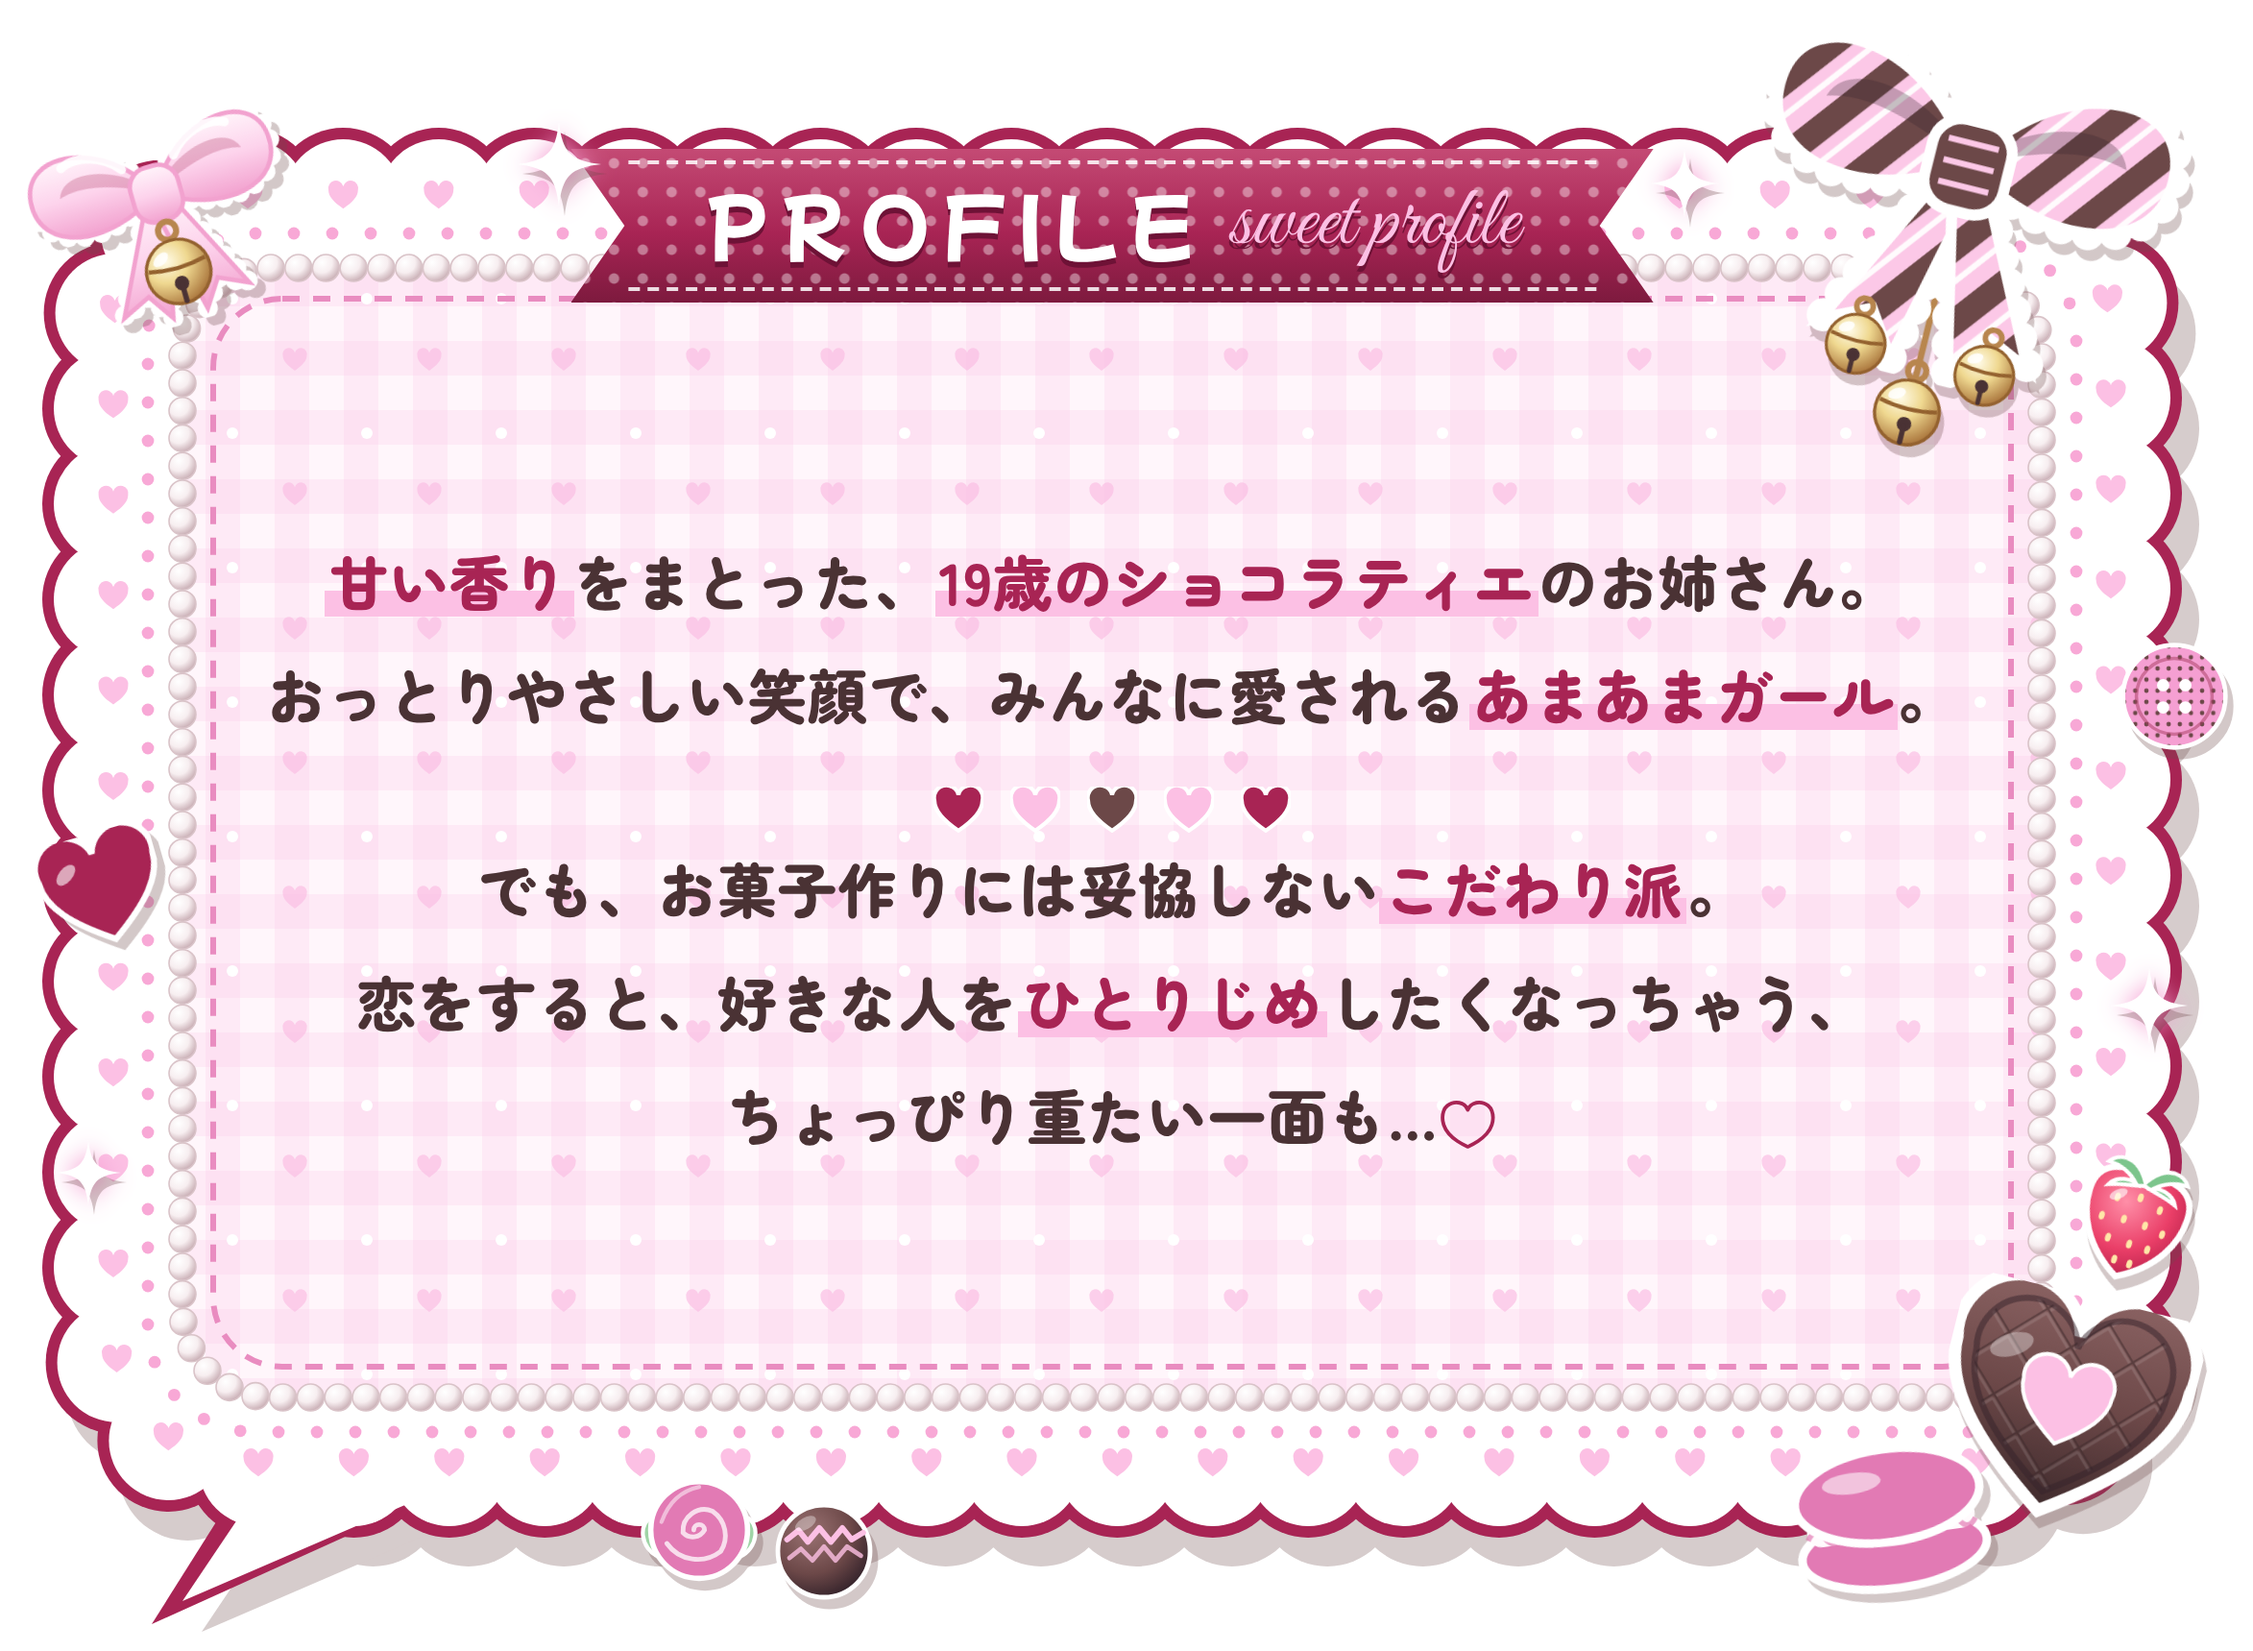
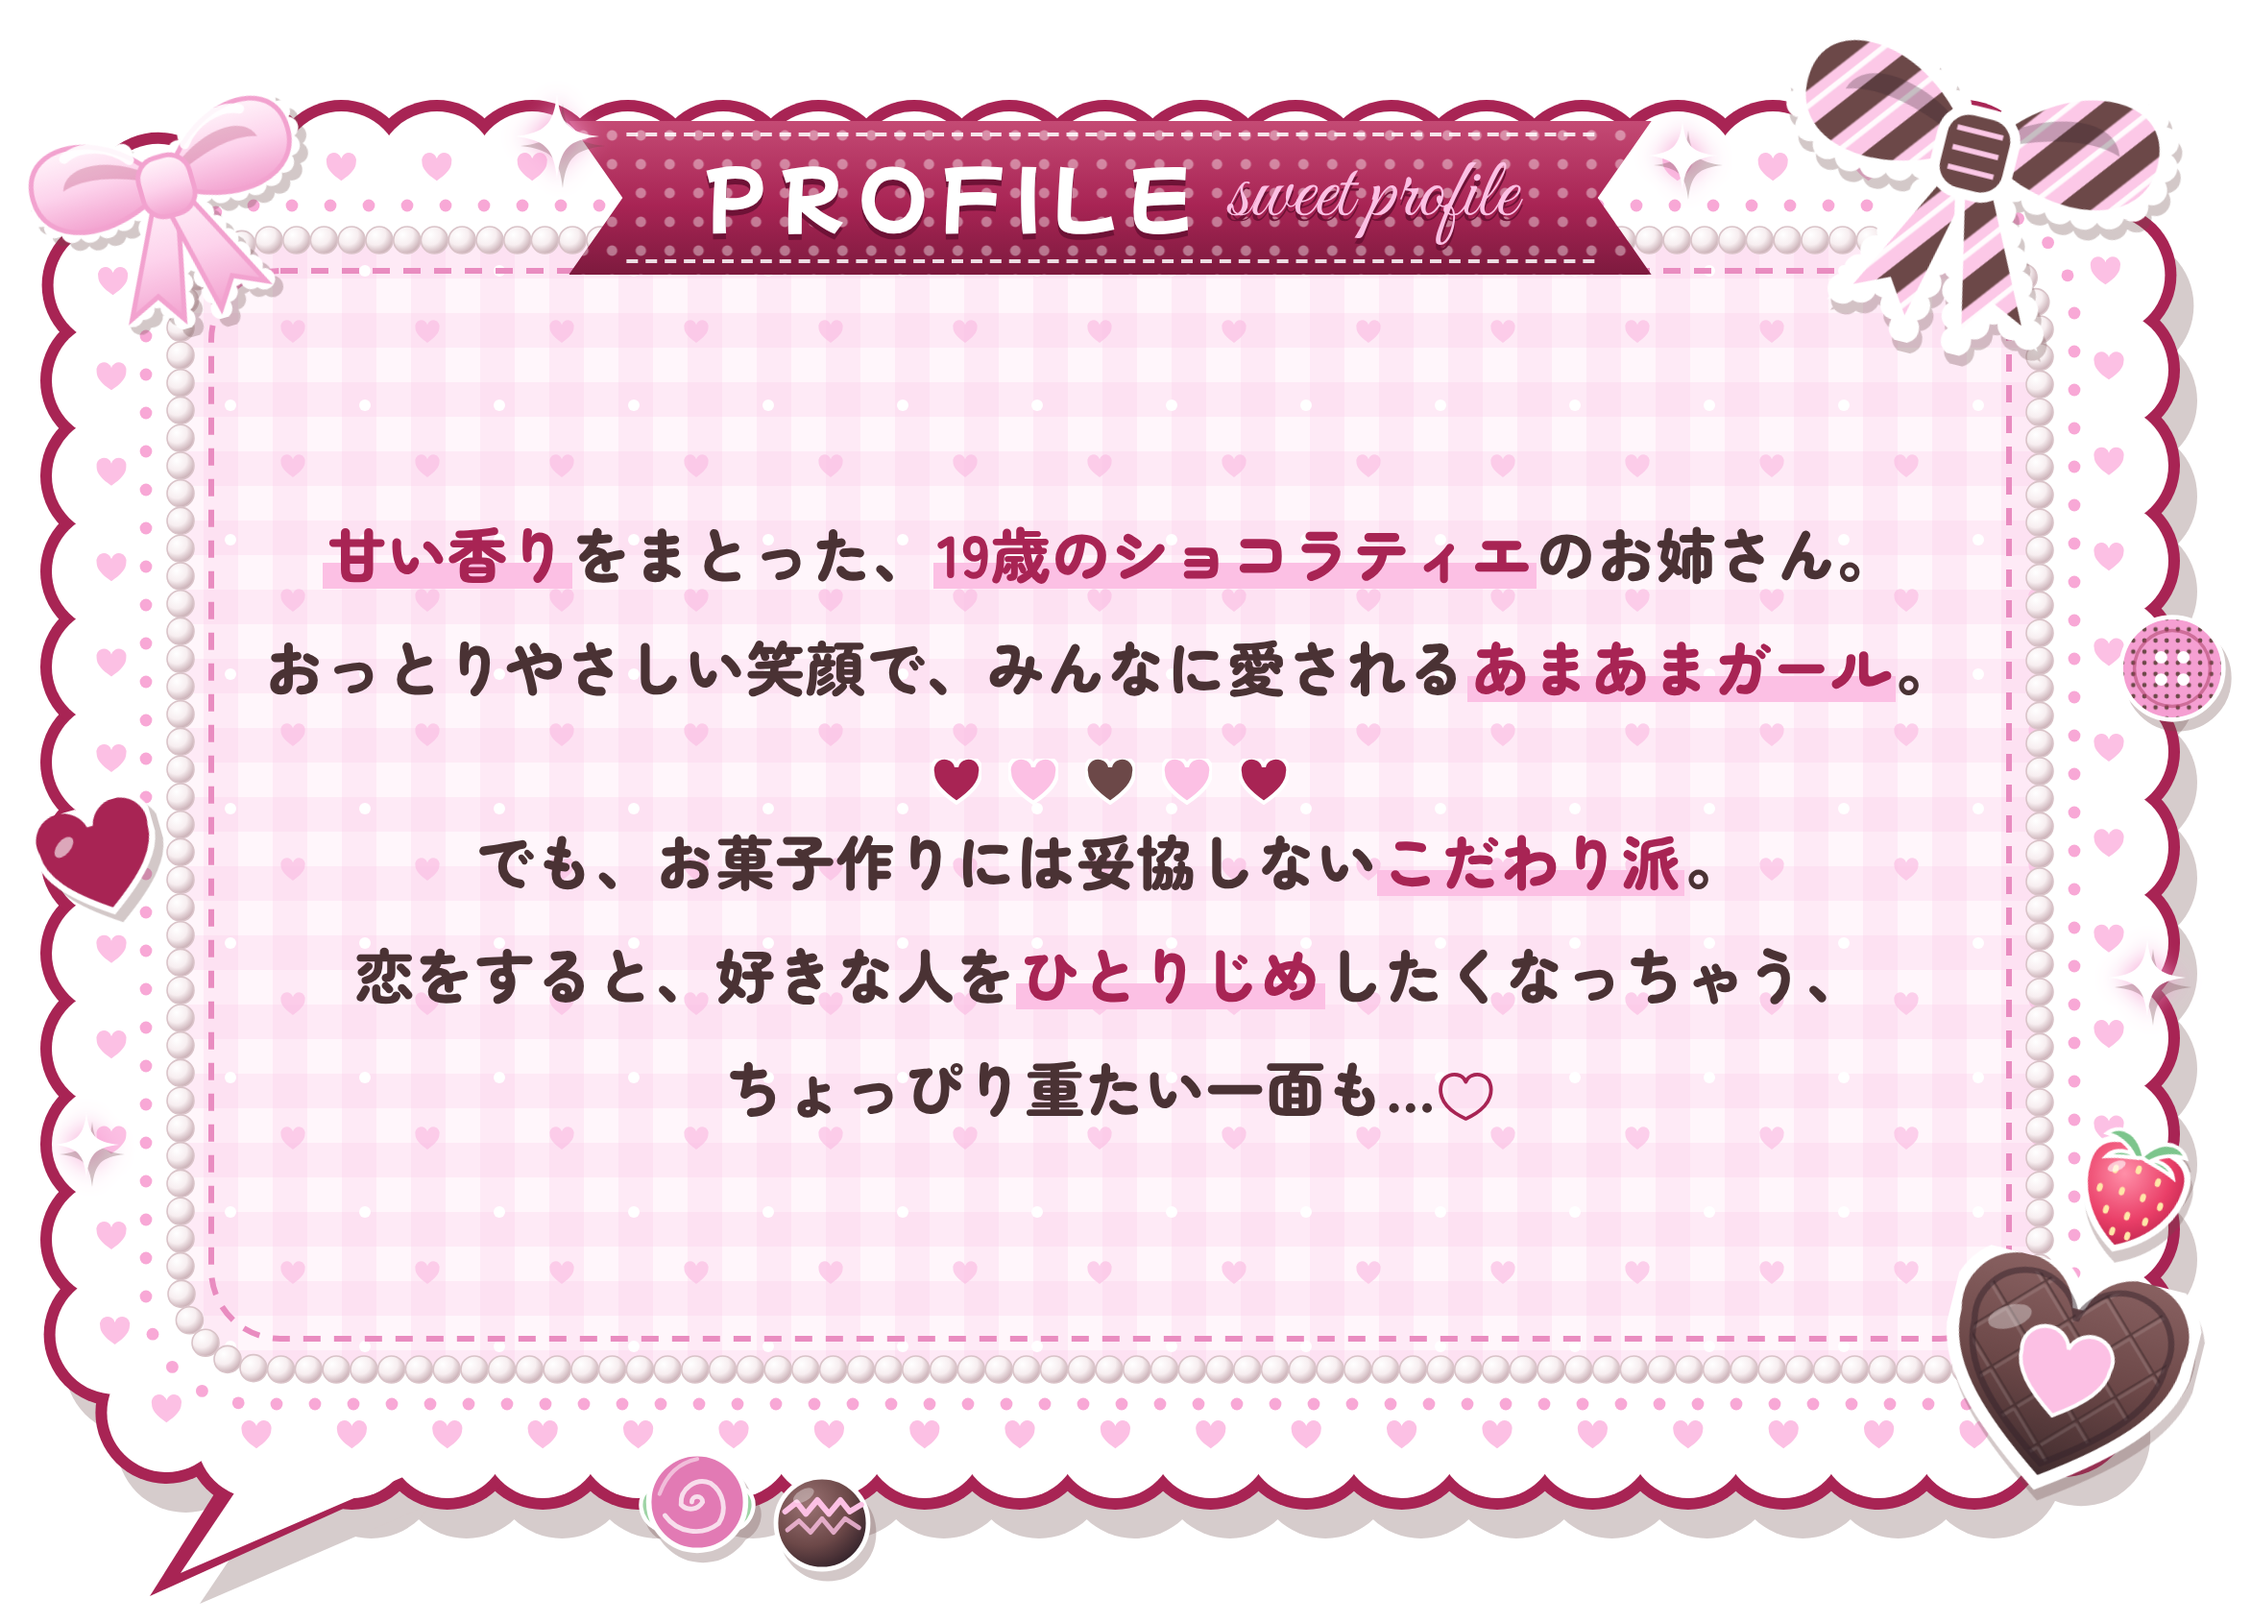
プロフィールフレームから鈴とマカロンを外す
Claude-Session: https://claude.ai/code/session_01JuB6ifHg8K2KMZRvspwKhg

diff --git a/chara_sheet/profile_frame.html b/chara_sheet/profile_frame.html
@@ -293,13 +293,12 @@ const rr = (x, y, w, h, r) => `M${x + r} ${y}H${x + w - r}A${r} ${r} 0 0 1 ${x +
 })();
 
 /* 飾り [種類, x, y, 幅, 回転, 色] */
-const VB = { bellS:'0 0 120 116', bellP:'0 0 120 116', bellC:'0 0 120 116', bigbow:'0 0 240 230', chocoheart:'0 0 100 92', macaron:'0 0 100 80',
+const VB = { bowS:'0 0 120 94', bowP:'0 0 120 94', bellS:'0 0 120 116', bellP:'0 0 120 116', bellC:'0 0 120 116', bigbow:'0 0 240 230', chocoheart:'0 0 100 92', macaron:'0 0 100 80',
   berryS:'0 0 80 92', truffle:'0 0 100 100', rose:'0 0 100 100', spark:'0 0 100 100', heart:'0 0 100 92', cream:'0 0 100 100', btnP:'0 0 100 100' };
 const D = [
-  ['bigbow', 900, -14, 230, 14, ''],
-  ['bellP', 20, 26, 140, -16, ''],
+  ['bowS', 920, 0, 210, 14, ''],
+  ['bowP', 18, 34, 150, -16, ''],
   ['chocoheart', 1010, 640, 130, 14, ''],
-  ['macaron', 930, 712, 110, -8, '#e27ab4'],
   ['berryS', 1080, 560, 66, 18, ''],
   ['rose', 330, 728, 70, 0, '#e27ab4'],
   ['truffle', 400, 744, 60, 0, ''],

diff --git a/chara_sheet/src_profile.html b/chara_sheet/src_profile.html
@@ -86,13 +86,12 @@ const rr = (x, y, w, h, r) => `M${x + r} ${y}H${x + w - r}A${r} ${r} 0 0 1 ${x +
 })();
 
 /* 飾り [種類, x, y, 幅, 回転, 色] */
-const VB = { bellS:'0 0 120 116', bellP:'0 0 120 116', bellC:'0 0 120 116', bigbow:'0 0 240 230', chocoheart:'0 0 100 92', macaron:'0 0 100 80',
+const VB = { bowS:'0 0 120 94', bowP:'0 0 120 94', bellS:'0 0 120 116', bellP:'0 0 120 116', bellC:'0 0 120 116', bigbow:'0 0 240 230', chocoheart:'0 0 100 92', macaron:'0 0 100 80',
   berryS:'0 0 80 92', truffle:'0 0 100 100', rose:'0 0 100 100', spark:'0 0 100 100', heart:'0 0 100 92', cream:'0 0 100 100', btnP:'0 0 100 100' };
 const D = [
-  ['bigbow', 900, -14, 230, 14, ''],
-  ['bellP', 20, 26, 140, -16, ''],
+  ['bowS', 920, 0, 210, 14, ''],
+  ['bowP', 18, 34, 150, -16, ''],
   ['chocoheart', 1010, 640, 130, 14, ''],
-  ['macaron', 930, 712, 110, -8, '#f78fb2'],
   ['berryS', 1080, 560, 66, 18, ''],
   ['rose', 330, 728, 70, 0, '#f78fb2'],
   ['truffle', 400, 744, 60, 0, ''],
